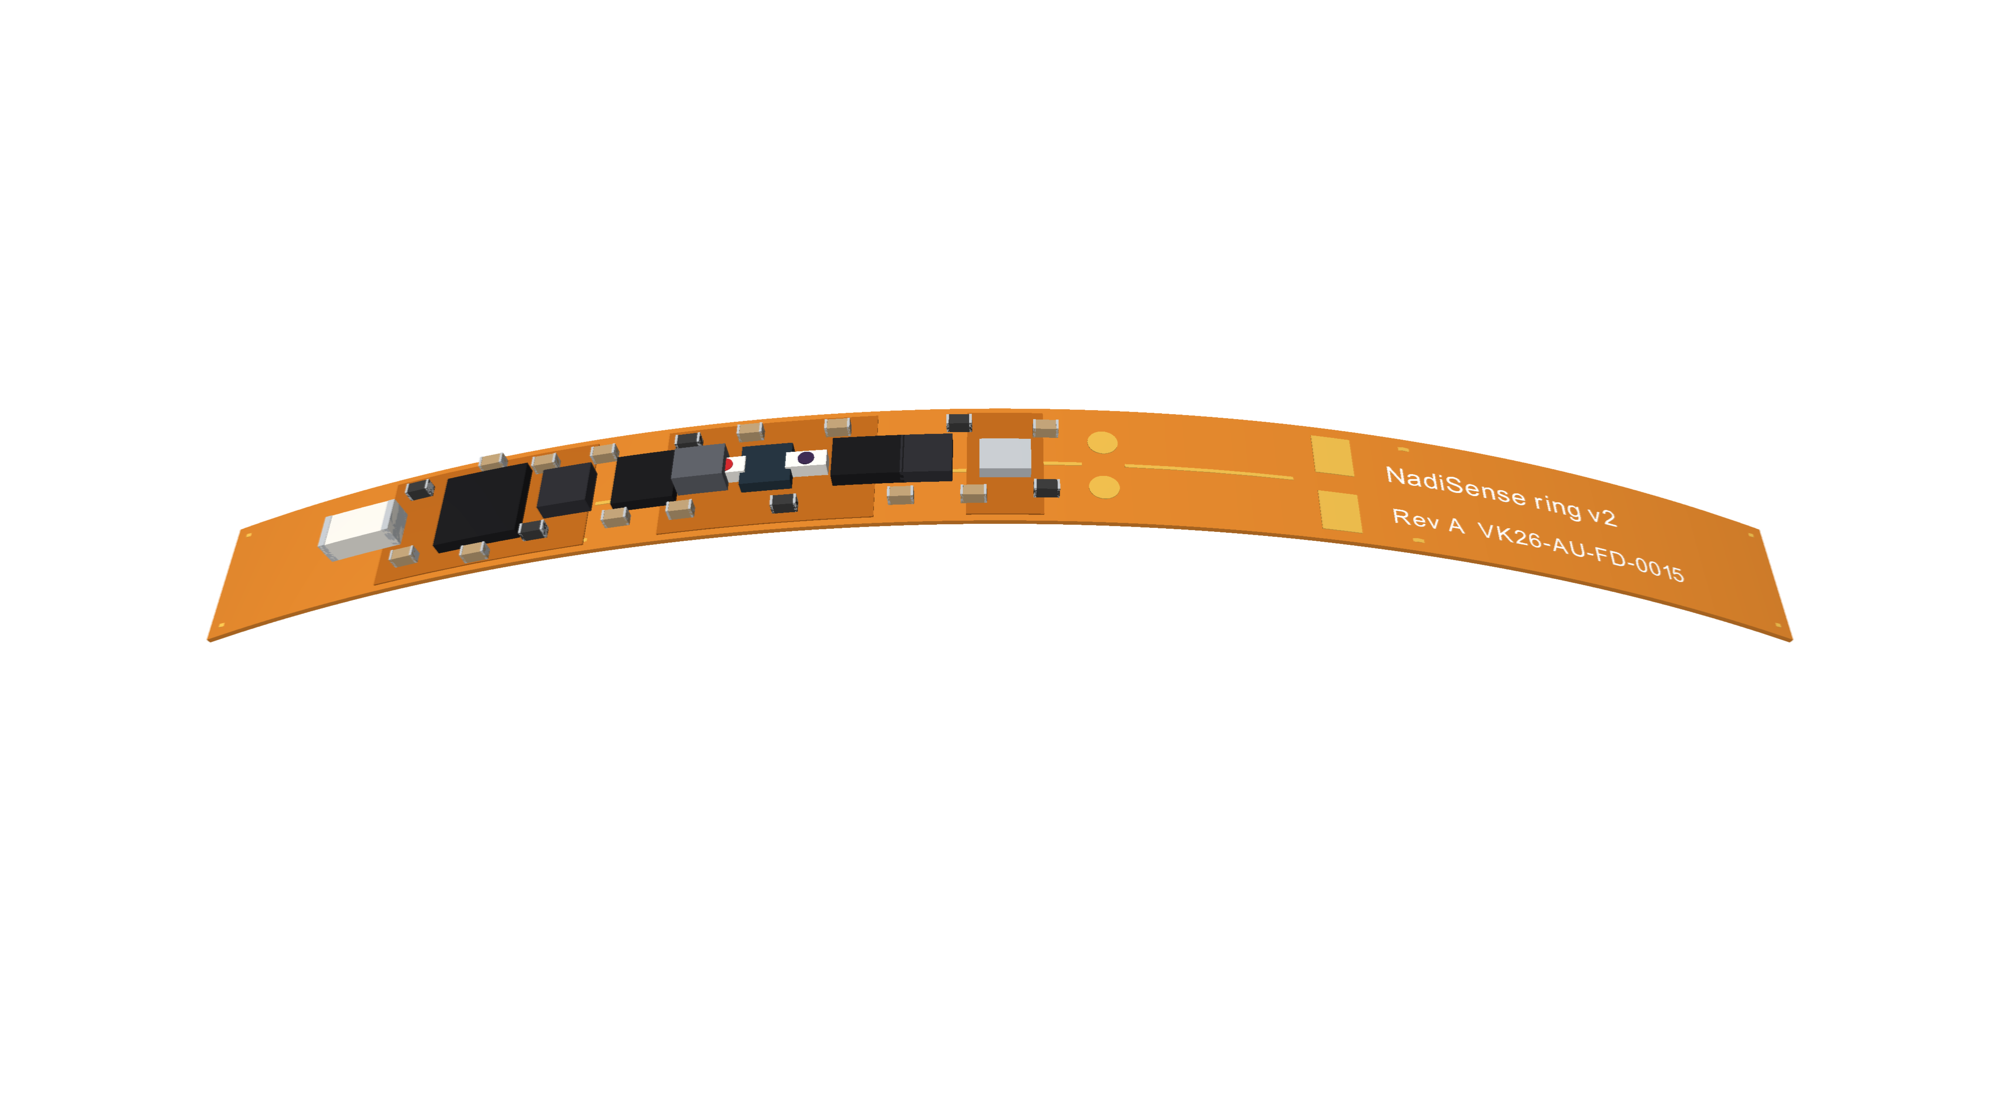
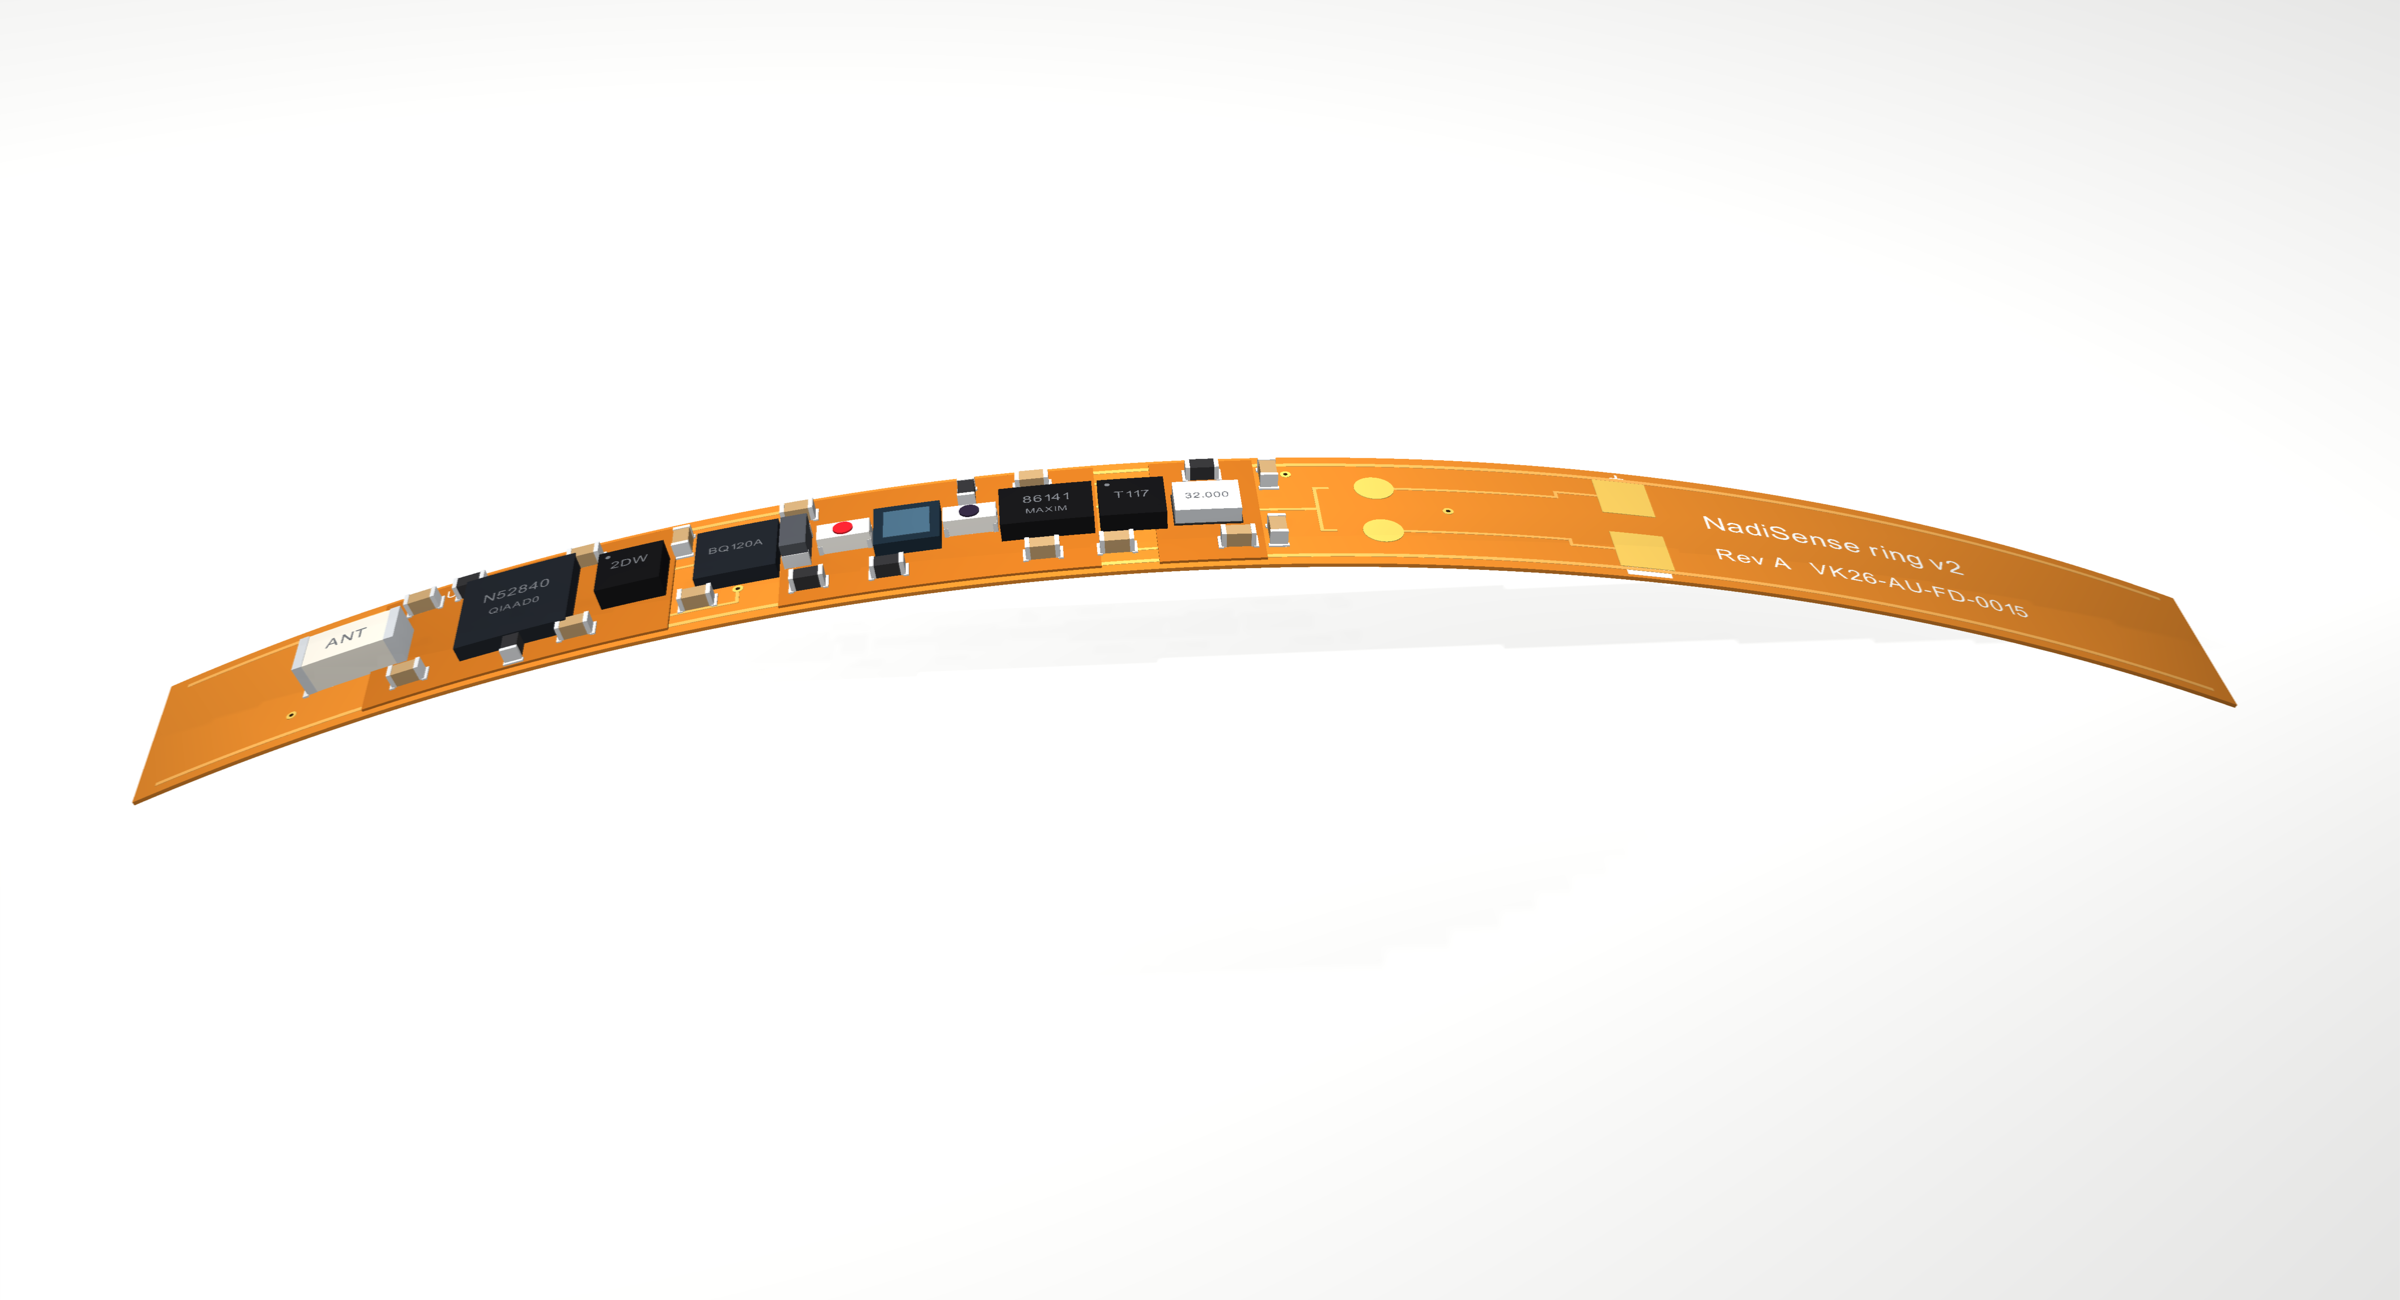
Flex PCB render: photo-style shading, traces, vias, markings
Claude-Session: https://claude.ai/code/session_01GSbfriCuRPxdbSTHDeqRus

Changed region(s): [[0.031, 0.34, 0.93, 0.6182], [0.899, 0.8655, 1.0, 1.0], [0.961, 0.0, 1.0, 0.0309]]

diff --git a/cad/render_flex.py b/cad/render_flex.py
@@ -1,8 +1,10 @@
-"""Render the NadiSense ring v2 flex PCB unrolled into a gentle arch.
+"""Photo-style render of the NadiSense ring v2 flex PCB, unrolled into a gentle arch.
 
 Board size and part positions follow cad/nadisense_ring.py: the flex wraps 330 deg
 at r = 11.6 mm (about 66.8 mm long) and is 6 mm wide; each part sits at the arc
-length that matches its angle in the ring model. Usage:
+length that matches its angle in the ring model. Parts are simplified packages at
+their datasheet sizes; traces and vias are illustrative, not the final layout.
+Usage:
     python cad/render_flex.py renders/flex_pcb.png
 """
 import sys
@@ -12,85 +14,176 @@ import pyvista as pv
 pv.OFF_SCREEN = True
 OUT = sys.argv[1] if len(sys.argv) > 1 else "flex_pcb.png"
 
-R_FLEX, A0, SPAN, W, T = 11.6, 150.0, 330.0, 6.0, 0.2
+R_FLEX, A0, SPAN, W, T = 11.6, 150.0, 330.0, 6.0, 0.12
 L = np.radians(SPAN) * R_FLEX          # ~66.8 mm
 
 
 def s_at(angle):
-    """Arc length along the flex for a ring angle in degrees."""
     return np.radians((angle - A0) % 360) * R_FLEX
 
 
-ORANGE, STIFF = "#D9822B", "#B8661C"
-GOLD, BLACK, DARK, SILVER, CERAMIC = "#E4B54A", "#1C1C1E", "#2E2E33", "#BFC3C7", "#EDEAE2"
+# materials: (colour, metallic, roughness)
+POLY = ("#D8822A", 0.0, 0.45)        # polyimide + coverlay
+STIFF = ("#BD6C1F", 0.0, 0.55)
+COPPER = ("#F0AE57", 0.6, 0.35)      # traces seen through coverlay
+GOLD = ("#E8C15A", 1.0, 0.22)        # ENIG pads
+SOLDER = ("#D6D8DA", 1.0, 0.18)
+MOLD = ("#141416", 0.0, 0.55)        # epoxy IC body
+WLCSP = ("#1E2228", 0.3, 0.25)       # bare-die look
+METAL = ("#C9CDD1", 1.0, 0.25)
+CERAMIC = ("#E9E4D8", 0.0, 0.5)
+CAP = ("#B8976A", 0.0, 0.6)
+INK = ("#F7F7F5", 0.0, 0.7)          # white silkscreen
+LASER = ("#6B6E73", 0.0, 0.8)        # laser marking on ICs
 
-items = []   # (mesh, colour, specular)
-
-
-def box(s, y, ls, ly, h, color, z0=T, spec=0.4):
-    m = pv.Box(bounds=(s - ls / 2, s + ls / 2, y - ly / 2, y + ly / 2, z0, z0 + h))
-    items.append((m.triangulate().subdivide(2, "linear"), color, spec))
-
-
-def disc(s, y, r, color, z0=T, h=0.03):
-    m = pv.Cylinder(center=(s, y, z0 + h / 2), direction=(0, 0, 1), radius=r, height=h, resolution=40)
-    items.append((m.triangulate().subdivide(1, "linear"), color, 0.6))
-
-
-# board and stiffeners under the ICs
-board = pv.Box(bounds=(0, L, -W / 2, W / 2, 0, T), level=(220, 12, 1)).triangulate()
-items.append((board, ORANGE, 0.25))
-for a, ls in [(212, 9.0), (270, 8.5), (316, 3.0)]:
-    box(s_at(a), 0, ls, W - 0.6, 0.06, STIFF, spec=0.2)
-Z = T + 0.06  # top of stiffener
-
-# copper traces (gold-finished), two rails plus short links
-for y in (-2.45, 2.45):
-    box(L / 2, y, L - 1.0, 0.18, 0.025, GOLD, spec=0.7)
-for s0, s1, y in [(9.2, 10.7, 0.0), (14.4, 15.2, 0.6), (17.3, 18.1, -0.6), (20.7, 21.3, 0.9),
-                  (26.0, 26.6, 0.0), (28.7, 29.6, 0.3), (31.5, 32.6, -0.4), (34.6, 36.6, 0.0),
-                  (38.3, 45.0, 0.0)]:
-    box((s0 + s1) / 2, y, s1 - s0, 0.16, 0.025, GOLD, z0=T, spec=0.7)
-
-# parts, at their ring-model angles
-box(s_at(186), 0, 3.2, 1.6, 1.0, CERAMIC, Z)                 # 2.4 GHz chip antenna
-box(s_at(186) - 1.45, 0, 0.3, 1.6, 1.02, SILVER, Z)
-box(s_at(186) + 1.45, 0, 0.3, 1.6, 1.02, SILVER, Z)
-box(s_at(212), 0, 3.5, 3.6, 0.5, BLACK, Z, 0.8)              # U1 nRF52840
-box(s_at(230), 0, 2.0, 2.0, 0.7, DARK, Z)                    # U4 LIS2DW12
-box(s_at(246), 0, 2.5, 2.5, 0.5, BLACK, Z, 0.8)              # U5 BQ25120A
-box(s_at(246) + 2.3, 0, 2.0, 1.6, 1.0, "#5A5D63", Z)         # 2.2 uH inductor
-sp = s_at(270)                                               # optical cluster
-box(sp - 1.6, 0, 1.6, 0.8, 0.6, "#F4F1EA", Z)                # red LED body
-disc(sp - 1.6, 0, 0.32, "#C8262B", Z + 0.6, 0.04)
-box(sp + 1.6, 0, 1.6, 0.8, 0.6, "#F4F1EA", Z)                # IR LED body
-disc(sp + 1.6, 0, 0.32, "#3B2A4F", Z + 0.6, 0.04)
-box(sp, 0, 2.0, 2.0, 0.5, "#24323D", Z, 0.9)                 # photodiode
-box(sp + 4.0, 0, 2.8, 2.0, 0.6, BLACK, Z, 0.8)               # U2 MAX86141
-box(s_at(296) + 1.0, 0, 2.0, 2.0, 0.6, DARK, Z)              # U3 TMP117
-box(s_at(316), 0, 2.0, 1.6, 0.5, SILVER, Z, 0.9)             # 32 MHz crystal
-for y in (-1.2, 1.2):                                        # charge-contact pads
-    disc(s_at(335), y, 0.6, GOLD)
-for y in (-1.5, 1.5):                                        # battery tabs
-    box(s_at(15) + 1.2, y, 1.6, 2.0, 0.03, GOLD, T, 0.7)
-
-# passives (0402 caps/resistors) next to the ICs
-caps = [(9.4, 1.8), (9.4, -1.8), (15.0, 1.8), (15.0, -1.8), (17.5, 1.8), (18.4, -1.8),
-        (21.0, 1.8), (21.0, -1.8), (23.5, 2.0), (25.1, -2.0), (27.0, 1.9), (29.6, -1.9),
-        (31.8, 1.9), (32.4, -1.9), (35.2, 1.6), (35.2, -1.6), (12.6, 2.4), (12.6, -2.4)]
-for i, (s, y) in enumerate(caps):
-    box(s, y, 1.0, 0.5, 0.5, "#B89B72" if i % 3 else "#3A3A3A", Z if 9 < s < 37 else T)
-    box(s - 0.45, y, 0.1, 0.5, 0.52, SILVER, Z if 9 < s < 37 else T)
-    box(s + 0.45, y, 0.1, 0.5, 0.52, SILVER, Z if 9 < s < 37 else T)
-
-# silkscreen on the free section behind the battery
-for text, s, y, hgt in [("NadiSense ring v2", 49.0, 0.25, 1.1), ("Rev A  VK26-AU-FD-0015", 49.0, -1.7, 0.75)]:
-    t = pv.Text3D(text, depth=0.02, height=hgt).triangulate()
-    t.translate((s - t.bounds[0], y - t.bounds[2], T), inplace=True)
-    items.append((t, "#FFFFFF", 0.1))
+items = []
 
 
-def bend(m, rb=75.0):
+def add(mesh, mat):
+    items.append((mesh.triangulate().subdivide(1, "linear") if mesh.n_cells < 400 else mesh.triangulate(), mat))
+
+
+def box(s, y, ls, ly, h, mat, z0=T):
+    n = max(1, int(ls / 0.4))
+    m = pv.Box(bounds=(s - ls / 2, s + ls / 2, y - ly / 2, y + ly / 2, z0, z0 + h), level=(n, 1, 1))
+    items.append((m.triangulate(), mat))
+
+
+def disc(s, y, r, mat, z0=T, h=0.015, res=32):
+    add(pv.Cylinder(center=(s, y, z0 + h / 2), direction=(0, 0, 1), radius=r, height=h, resolution=res), mat)
+
+
+def text(t, s, y, hgt, mat, z0, center=True):
+    m = pv.Text3D(t, depth=0.006, height=hgt).triangulate()
+    b = m.bounds
+    dx = s - (b[0] + b[1]) / 2 if center else s - b[0]
+    m.translate((dx, y - (b[2] + b[3]) / 2, z0), inplace=True)
+    items.append((m, mat))
+
+
+def trace(pts, w=0.12, mat=COPPER, z0=T):
+    for (a, b) in zip(pts[:-1], pts[1:]):
+        (s0, y0), (s1, y1) = a, b
+        if abs(s1 - s0) > abs(y1 - y0):
+            box((s0 + s1) / 2, y0, abs(s1 - s0) + w, w, 0.012, mat, z0)
+        else:
+            box(s0, (y0 + y1) / 2, w, abs(y1 - y0) + w, 0.012, mat, z0)
+
+
+def via(s, y):
+    disc(s, y, 0.17, GOLD, T, 0.014, 20)
+    disc(s, y, 0.07, ("#2A1A0C", 0.0, 0.9), T + 0.002, 0.014, 16)
+
+
+def chip0402(s, y, mat=CAP, z0=T, rot=False):
+    ls, ly = (0.5, 1.0) if rot else (1.0, 0.5)
+    box(s, y, ls * 0.8 if not rot else ls, ly if not rot else ly * 0.8, 0.45, mat, z0 + 0.02)
+    for d in (-1, 1):
+        if rot:
+            box(s, y + d * 0.44, ls + 0.04, 0.14, 0.47, SOLDER, z0 + 0.02)
+            box(s, y + d * 0.52, ls + 0.12, 0.16, 0.05, SOLDER, z0)   # fillet
+        else:
+            box(s + d * 0.44, y, 0.14, ly + 0.04, 0.47, SOLDER, z0 + 0.02)
+            box(s + d * 0.52, y, 0.16, ly + 0.12, 0.05, SOLDER, z0)
+
+
+# ---- board
+add(pv.Box(bounds=(0, L, -W / 2, W / 2, 0, T), level=(260, 16, 1)), POLY)
+ZS = T + 0.08
+for a, ls in [(212, 9.6), (270, 9.6), (316, 3.2)]:
+    s0 = s_at(a) + (1.2 if a == 270 else 0)
+    box(s0, 0, ls, W - 0.5, 0.08, STIFF, T)
+
+# ---- traces (illustrative routing) and vias
+for y in (-2.55, 2.55):
+    trace([(0.8, y), (L - 0.8, y)], 0.16)
+routes = [
+    [(6.0, 0.6), (8.6, 0.6)], [(10.4, -0.8), (9.0, -0.8), (9.0, -2.55)],
+    [(14.4, 0.9), (15.0, 0.9), (15.0, 2.55)], [(14.4, -0.3), (16.4, -0.3)],
+    [(14.4, -1.2), (15.6, -1.2), (15.6, -2.0), (19.4, -2.0), (19.4, -1.3)],
+    [(17.3, 0.5), (18.2, 0.5)], [(20.7, 0.4), (21.6, 0.4)], [(23.6, 1.1), (23.6, 1.9), (31.0, 1.9), (31.0, 1.1)],
+    [(26.1, -0.2), (28.0, -0.2)], [(29.5, 0.6), (30.3, 0.6)], [(29.5, -0.7), (29.5, -1.9), (33.2, -1.9), (33.2, -0.9)],
+    [(32.5, 0.4), (33.5, 0.4)], [(35.2, 0.0), (37.0, 0.0), (37.0, 1.2), (37.4, 1.2)],
+    [(37.0, 0.0), (37.0, -1.2), (37.4, -1.2)], [(38.4, 1.2), (44.6, 1.2), (44.6, 1.5), (46.0, 1.5)],
+    [(38.4, -1.2), (44.6, -1.2), (44.6, -1.5), (46.0, -1.5)],
+]
+for r in routes:
+    trace(r, 0.11)
+for s, y in [(9.0, -2.55), (15.0, 2.55), (19.4, -1.3), (11.2, 2.0), (13.6, -2.1), (22.4, -1.2),
+             (27.3, 1.2), (31.0, 1.1), (33.2, -0.9), (36.2, 2.0), (41.0, 0.0), (5.2, -1.6), (5.2, 1.6)]:
+    via(s, y)
+
+# ---- parts
+sa = s_at(186)                                             # chip antenna
+box(sa, 0, 2.9, 1.6, 1.0, CERAMIC, T + 0.02)
+for d in (-1, 1):
+    box(sa + d * 1.5, 0, 0.32, 1.64, 1.02, METAL, T + 0.02)
+    box(sa + d * 1.72, 0, 0.18, 1.8, 0.06, SOLDER, T)
+text("ANT", sa, 0, 0.45, LASER, T + 1.02)
+
+sm = s_at(212)                                             # U1 nRF52840 WLCSP
+box(sm, 0, 3.5, 3.6, 0.48, WLCSP, ZS + 0.03)
+text("N52840", sm, 0.5, 0.42, LASER, ZS + 0.51)
+text("QIAAD0", sm, -0.3, 0.32, LASER, ZS + 0.51)
+
+sx = s_at(230)                                             # U4 LIS2DW12 LGA
+box(sx, 0, 2.0, 2.0, 0.7, MOLD, ZS + 0.02)
+text("2DW", sx, 0.2, 0.36, LASER, ZS + 0.72)
+disc(sx - 0.7, 0.7, 0.08, LASER, ZS + 0.72, 0.006)
+
+sb = s_at(246)                                             # U5 BQ25120A WCSP
+box(sb, 0, 2.5, 2.5, 0.5, WLCSP, ZS + 0.03)
+text("BQ120A", sb, 0.1, 0.34, LASER, ZS + 0.53)
+box(sb + 1.8, 0, 0.8, 1.6, 0.8, ("#4B4E54", 0.2, 0.5), ZS + 0.02)   # L1 2.2 uH (0603)
+for d in (-1, 1):
+    box(sb + 1.8, d * 0.74, 0.82, 0.16, 0.45, SOLDER, ZS)
+
+sp = s_at(270) + 0.3                                       # optical cluster
+for ds, lens in ((-1.9, "#D21F2B"), (1.9, "#2C2338")):     # red / IR LEDs
+    box(sp + ds, 0, 1.6, 0.8, 0.55, ("#F2EFE8", 0.0, 0.35), ZS + 0.02)
+    disc(sp + ds, 0, 0.3, (lens, 0.0, 0.1), ZS + 0.57, 0.05)
+    for d in (-1, 1):
+        box(sp + ds + d * 0.74, 0, 0.14, 0.82, 0.3, SOLDER, ZS)
+box(sp, 0, 2.0, 2.0, 0.45, ("#1B2A36", 0.2, 0.12), ZS + 0.02)      # photodiode, clear package
+box(sp, 0, 1.4, 1.4, 0.02, ("#3E5C70", 0.6, 0.15), ZS + 0.47)       # active area
+sf = sp + 4.2
+box(sf, 0, 2.8, 2.0, 0.6, MOLD, ZS + 0.02)                          # U2 MAX86141
+text("86141", sf, 0.25, 0.38, LASER, ZS + 0.62)
+text("MAXIM", sf, -0.4, 0.26, LASER, ZS + 0.62)
+
+stt = s_at(296) + 1.8
+box(stt, 0, 2.0, 2.0, 0.6, MOLD, ZS + 0.02)                         # U3 TMP117
+text("T117", stt, 0.1, 0.36, LASER, ZS + 0.62)
+disc(stt - 0.7, 0.7, 0.08, LASER, ZS + 0.62, 0.006)
+
+sc = s_at(316)                                                      # Y1 32 MHz
+box(sc, 0, 2.0, 1.6, 0.5, METAL, ZS + 0.02)
+box(sc, 0, 2.08, 1.68, 0.05, ("#2B2B2B", 0.0, 0.6), ZS)
+text("32.000", sc, 0, 0.3, LASER, ZS + 0.52)
+
+for y in (-1.2, 1.2):                                               # charge-contact pads
+    disc(s_at(335) + 1.4, y, 0.62, GOLD, T, 0.02, 48)
+for y in (-1.5, 1.5):                                               # battery tabs
+    box(46.8, y, 1.7, 1.9, 0.02, GOLD, T)
+
+# passives around the ICs
+for s, y, rot in [(9.2, 1.9, 0), (9.2, -1.9, 0), (10.8, 2.0, 0), (14.5, 1.9, 0), (14.5, -1.9, 0), (12.6, -2.1, 1),
+                  (17.6, 1.6, 1), (18.2, -1.7, 0), (21.2, 1.9, 0), (21.6, -1.9, 0), (24.0, -1.9, 0),
+                  (26.4, 1.6, 1), (28.4, 1.9, 0), (28.6, -1.9, 0), (30.8, -1.9, 0), (33.6, 1.9, 0),
+                  (34.4, -1.9, 0), (35.6, 1.6, 1), (35.6, -1.6, 1)]:
+    zz = ZS if 7.6 < s < 36.0 and (s < 17.4 or 19.5 < s < 32.0 or 33.5 < s) else T
+    chip0402(s, y, CAP if int(s * 10) % 3 else ("#2F2F31", 0.0, 0.6), zz, bool(rot))
+
+# silkscreen
+text("NadiSense ring v2", 49.3, 0.55, 0.95, INK, T + 0.001, center=False)
+text("Rev A   VK26-AU-FD-0015", 49.3, -1.15, 0.6, INK, T + 0.001, center=False)
+text("U1", s_at(212) - 2.4, 2.25, 0.4, INK, ZS + 0.001)
+text("U2", sf, 1.55, 0.4, INK, ZS + 0.001)
+text("+", 46.8, 2.65, 0.45, INK, T + 0.001)
+text("-", 46.8, -2.65, 0.45, INK, T + 0.001)
+
+
+def bend(m, rb=80.0):
     m = m.copy()
     p = m.points
     th = (p[:, 0] - L / 2) / rb
@@ -99,18 +192,30 @@ def bend(m, rb=75.0):
     return m
 
 
-pl = pv.Plotter(off_screen=True, window_size=(2000, 1100), lighting="none")
-pl.set_background("white")
-pl.add_light(pv.Light(position=(20, -60, 90), focal_point=(0, 0, 0), intensity=0.85))
-pl.add_light(pv.Light(position=(-70, 30, 40), focal_point=(0, 0, 0), intensity=0.35))
-pl.add_light(pv.Light(light_type="headlight", intensity=0.3))
-for m, c, spec in items:
-    mm = bend(m).compute_normals(split_vertices=True, feature_angle=40)
-    pl.add_mesh(mm, color=c, smooth_shading=True, specular=spec, specular_power=30, ambient=0.28, diffuse=0.72)
-pl.camera.position = (0, -58, 62)
+meshes = [(bend(m).compute_normals(split_vertices=True, feature_angle=40), mat) for m, mat in items]
+zmin = min(m.bounds[4] for m, _ in meshes)
+
+pl = pv.Plotter(off_screen=True, window_size=(2400, 1300), lighting="none")
+pl.set_background("#FFFFFF")
+ground = pv.Plane(center=(0, 0, zmin - 0.005), direction=(0, 0, 1), i_size=400, j_size=400)
+pl.add_mesh(ground, color="#FBFBFA", ambient=0.55, diffuse=0.5, specular=0.0)
+for m, (c, met, rough) in meshes:
+    pl.add_mesh(m, color=c, smooth_shading=True, ambient=0.32, diffuse=0.72,
+                specular=0.25 + 0.75 * met * (1 - rough), specular_power=15 + 70 * (1 - rough))
+key = pv.Light(position=(-25, -40, 70), focal_point=(0, 0, 0), intensity=1.1, positional=True, cone_angle=50)
+fill = pv.Light(position=(60, -20, 30), focal_point=(0, 0, 0), intensity=0.45)
+rim = pv.Light(position=(0, 60, 40), focal_point=(0, 0, 0), intensity=0.35)
+for lt in (key, fill, rim):
+    pl.add_light(lt)
+try:
+    pl.enable_shadows()
+except Exception as e:
+    print("shadows off:", e)
+pl.camera.position = (-6, -78, 50)
 pl.camera.focal_point = (0, 0, -5)
 pl.camera.up = (0, 0, 1)
-pl.camera.zoom(1.05)
+pl.camera.view_angle = 24
+pl.camera.zoom(1.0)
 pl.enable_anti_aliasing("ssaa")
 pl.screenshot(OUT)
 print("wrote", OUT, "length %.1f mm" % L)
